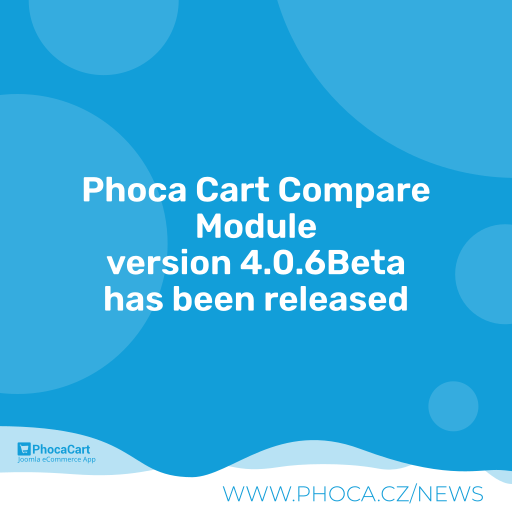
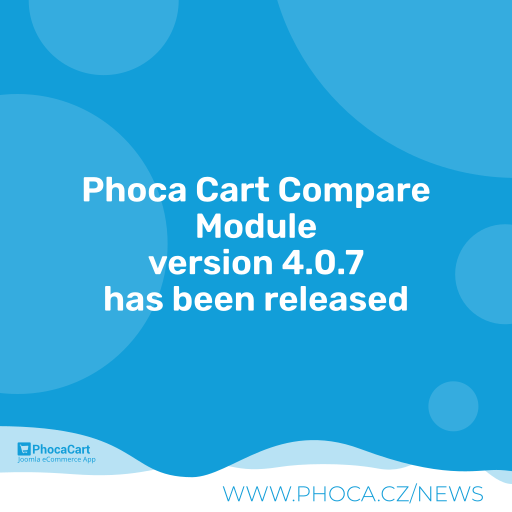
4.0.7

Changed region(s): [[0.1875, 0.4688, 0.8125, 0.5625]]

diff --git a/README.MD b/README.MD
@@ -60,7 +60,7 @@ Phoca Cart Compare Module - a Joomla! CMS module which displays selected product
 
 ## Version (Joomla! 4.x)
 
-4.0.6Beta
+4.0.7
 
 
 
